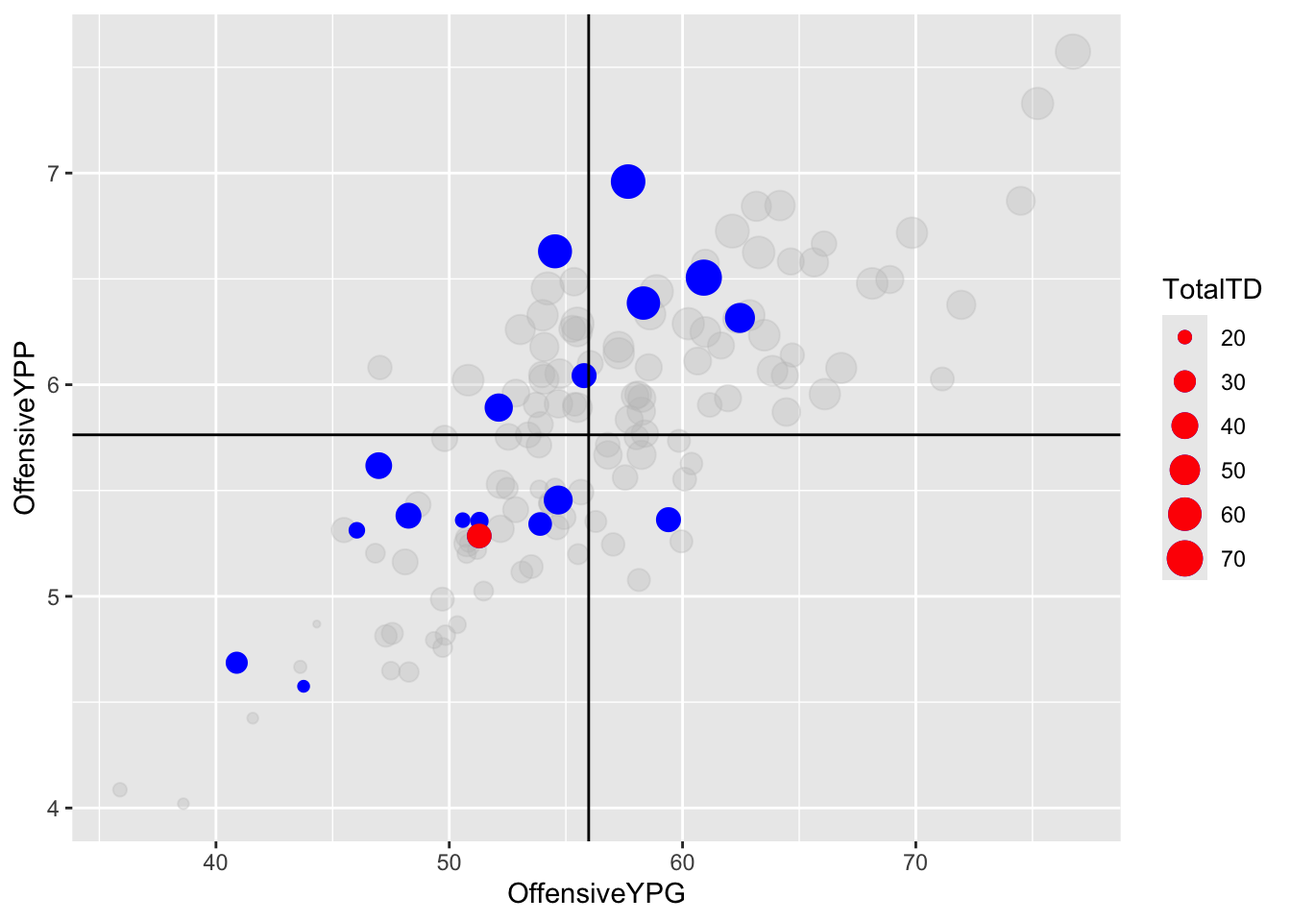
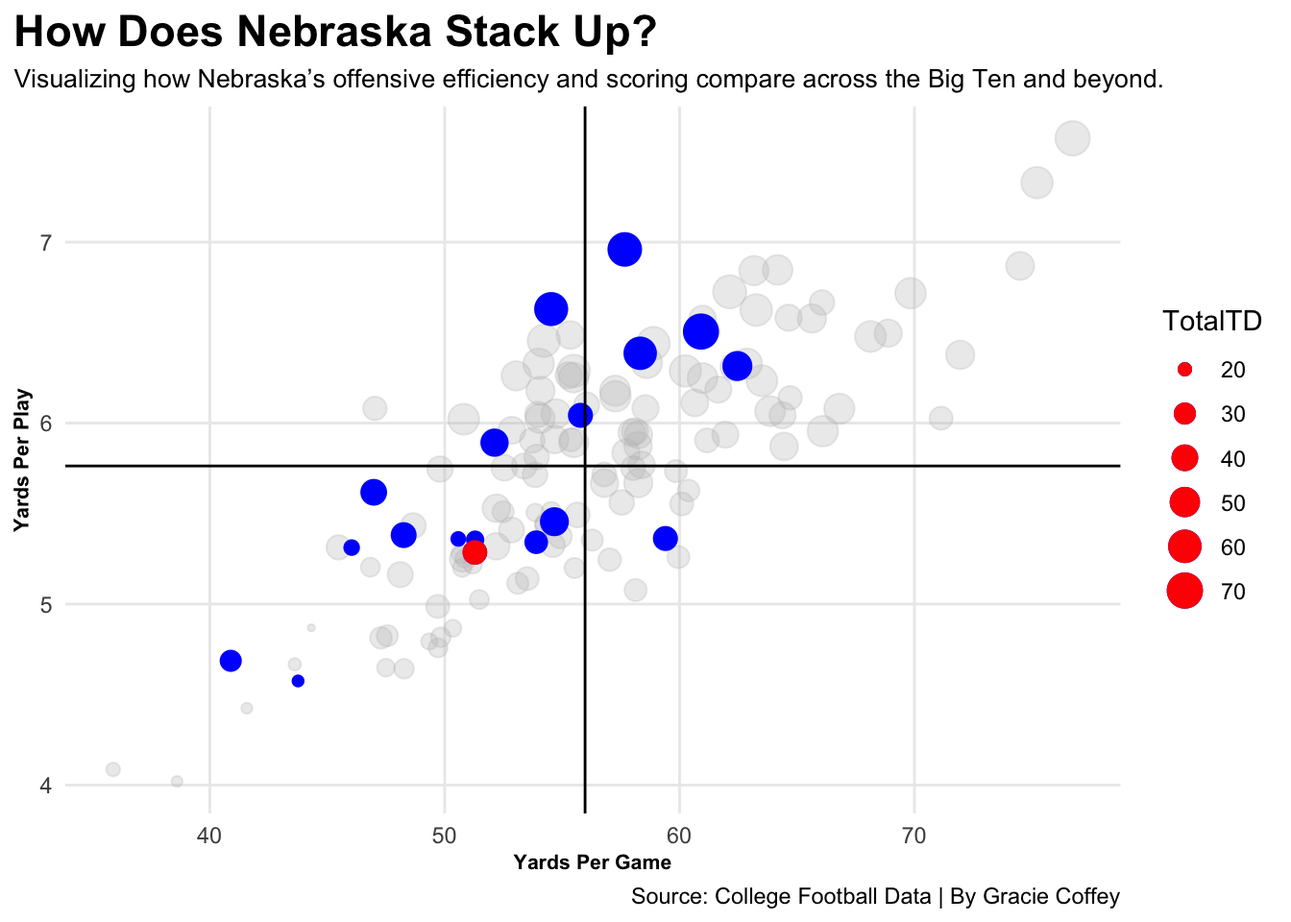
initial commit

diff --git a/posts/nebraska-football-offensive-line/index.html b/posts/nebraska-football-offensive-line/index.html
@@ -362,109 +362,42 @@ date  (1): Date
 <div class="sourceCode cell-code" id="cb12"><pre class="sourceCode r code-with-copy"><code class="sourceCode r"><span id="cb12-1"><a href="#cb12-1" aria-hidden="true" tabindex="-1"></a><span class="fu">ggplot</span>() <span class="sc">+</span> </span>
 <span id="cb12-2"><a href="#cb12-2" aria-hidden="true" tabindex="-1"></a>  <span class="fu">geom_point</span>(</span>
 <span id="cb12-3"><a href="#cb12-3" aria-hidden="true" tabindex="-1"></a>    <span class="at">data=</span>ypp, </span>
-<span id="cb12-4"><a href="#cb12-4" aria-hidden="true" tabindex="-1"></a>    <span class="fu">aes</span>(<span class="at">x=</span>OffensiveYPG, <span class="at">y=</span>OffensiveYPP, <span class="at">size=</span>TotalTD),</span>
-<span id="cb12-5"><a href="#cb12-5" aria-hidden="true" tabindex="-1"></a>    <span class="at">alpha =</span> .<span class="dv">3</span>) <span class="sc">+</span> </span>
-<span id="cb12-6"><a href="#cb12-6" aria-hidden="true" tabindex="-1"></a>  <span class="fu">scale_size</span>(<span class="at">range =</span> <span class="fu">c</span>(<span class="dv">3</span>, <span class="dv">8</span>), <span class="at">name=</span><span class="st">"Touchdowns"</span>)</span></code><button title="Copy to Clipboard" class="code-copy-button"><i class="bi"></i></button></pre></div>
+<span id="cb12-4"><a href="#cb12-4" aria-hidden="true" tabindex="-1"></a>    <span class="fu">aes</span>(<span class="at">x=</span>OffensiveYPG, <span class="at">y=</span>OffensiveYPP, <span class="at">size=</span>TotalTD), </span>
+<span id="cb12-5"><a href="#cb12-5" aria-hidden="true" tabindex="-1"></a>    <span class="at">color=</span><span class="st">"grey"</span>, </span>
+<span id="cb12-6"><a href="#cb12-6" aria-hidden="true" tabindex="-1"></a>    <span class="at">alpha=</span>.<span class="dv">3</span>) <span class="sc">+</span> </span>
+<span id="cb12-7"><a href="#cb12-7" aria-hidden="true" tabindex="-1"></a>  <span class="fu">geom_point</span>(</span>
+<span id="cb12-8"><a href="#cb12-8" aria-hidden="true" tabindex="-1"></a>    <span class="at">data=</span>bigten, </span>
+<span id="cb12-9"><a href="#cb12-9" aria-hidden="true" tabindex="-1"></a>    <span class="fu">aes</span>(<span class="at">x=</span>OffensiveYPG, <span class="at">y=</span>OffensiveYPP, <span class="at">size=</span>TotalTD), </span>
+<span id="cb12-10"><a href="#cb12-10" aria-hidden="true" tabindex="-1"></a>    <span class="at">color=</span><span class="st">"blue"</span>) <span class="sc">+</span> </span>
+<span id="cb12-11"><a href="#cb12-11" aria-hidden="true" tabindex="-1"></a>  <span class="fu">geom_point</span>(</span>
+<span id="cb12-12"><a href="#cb12-12" aria-hidden="true" tabindex="-1"></a>    <span class="at">data=</span>huskers, </span>
+<span id="cb12-13"><a href="#cb12-13" aria-hidden="true" tabindex="-1"></a>    <span class="fu">aes</span>(<span class="at">x=</span>OffensiveYPG, <span class="at">y=</span>OffensiveYPP, <span class="at">size=</span>TotalTD), </span>
+<span id="cb12-14"><a href="#cb12-14" aria-hidden="true" tabindex="-1"></a>    <span class="at">color=</span><span class="st">"red"</span>) <span class="sc">+</span></span>
+<span id="cb12-15"><a href="#cb12-15" aria-hidden="true" tabindex="-1"></a>  <span class="fu">geom_vline</span>(<span class="at">xintercept =</span> <span class="fl">55.97656</span>) <span class="sc">+</span> </span>
+<span id="cb12-16"><a href="#cb12-16" aria-hidden="true" tabindex="-1"></a>  <span class="fu">geom_hline</span>(<span class="at">yintercept =</span> <span class="fl">5.763149</span>) <span class="sc">+</span></span>
+<span id="cb12-17"><a href="#cb12-17" aria-hidden="true" tabindex="-1"></a>  <span class="fu">geom_text_repel</span>(</span>
+<span id="cb12-18"><a href="#cb12-18" aria-hidden="true" tabindex="-1"></a>    <span class="at">data=</span>huskers, </span>
+<span id="cb12-19"><a href="#cb12-19" aria-hidden="true" tabindex="-1"></a>    <span class="fu">aes</span>(<span class="at">x=</span>OffensiveYPG <span class="sc">-</span> .<span class="dv">25</span>, <span class="at">y=</span>OffensiveYPP <span class="sc">-</span> .<span class="dv">25</span>, <span class="at">label=</span>Team)) <span class="sc">|&gt;</span></span>
+<span id="cb12-20"><a href="#cb12-20" aria-hidden="true" tabindex="-1"></a><span class="fu">labs</span>(</span>
+<span id="cb12-21"><a href="#cb12-21" aria-hidden="true" tabindex="-1"></a>    <span class="at">x=</span><span class="st">"Yards Per Game"</span>,</span>
+<span id="cb12-22"><a href="#cb12-22" aria-hidden="true" tabindex="-1"></a>    <span class="at">y=</span><span class="st">"Yards Per Play"</span>, </span>
+<span id="cb12-23"><a href="#cb12-23" aria-hidden="true" tabindex="-1"></a>    <span class="at">title=</span><span class="st">"How Does Nebraska Stack Up?"</span>, </span>
+<span id="cb12-24"><a href="#cb12-24" aria-hidden="true" tabindex="-1"></a>    <span class="at">subtitle=</span><span class="st">"Visualizing how Nebraska’s offensive efficiency and scoring compare across the Big Ten and beyond."</span>, </span>
+<span id="cb12-25"><a href="#cb12-25" aria-hidden="true" tabindex="-1"></a>    <span class="at">caption=</span><span class="st">"Source: College Football Data | By Gracie Coffey"</span></span>
+<span id="cb12-26"><a href="#cb12-26" aria-hidden="true" tabindex="-1"></a>    ) <span class="sc">+</span></span>
+<span id="cb12-27"><a href="#cb12-27" aria-hidden="true" tabindex="-1"></a> <span class="fu">theme_minimal</span>() <span class="sc">+</span> </span>
+<span id="cb12-28"><a href="#cb12-28" aria-hidden="true" tabindex="-1"></a>  <span class="fu">theme</span>(</span>
+<span id="cb12-29"><a href="#cb12-29" aria-hidden="true" tabindex="-1"></a>    <span class="at">plot.title =</span> <span class="fu">element_text</span>(<span class="at">size =</span> <span class="dv">17</span>, <span class="at">face =</span> <span class="st">"bold"</span>),</span>
+<span id="cb12-30"><a href="#cb12-30" aria-hidden="true" tabindex="-1"></a>    <span class="at">axis.title =</span> <span class="fu">element_text</span>(<span class="at">size =</span> <span class="dv">8</span>, <span class="at">face =</span> <span class="st">"bold"</span>), </span>
+<span id="cb12-31"><a href="#cb12-31" aria-hidden="true" tabindex="-1"></a>    <span class="at">plot.subtitle =</span> <span class="fu">element_text</span>(<span class="at">size=</span><span class="dv">10</span>), </span>
+<span id="cb12-32"><a href="#cb12-32" aria-hidden="true" tabindex="-1"></a>    <span class="at">panel.grid.minor =</span> <span class="fu">element_blank</span>(),</span>
+<span id="cb12-33"><a href="#cb12-33" aria-hidden="true" tabindex="-1"></a>    <span class="at">plot.title.position =</span> <span class="st">"plot"</span></span>
+<span id="cb12-34"><a href="#cb12-34" aria-hidden="true" tabindex="-1"></a>    ) </span></code><button title="Copy to Clipboard" class="code-copy-button"><i class="bi"></i></button></pre></div>
 </details>
 <div class="cell-output-display">
 <div>
 <figure class="figure">
 <p><img src="index_files/figure-html/unnamed-chunk-5-1.png" class="img-fluid figure-img" width="672"></p>
-</figure>
-</div>
-</div>
-<details class="code-fold">
-<summary>Code</summary>
-<div class="sourceCode cell-code" id="cb13"><pre class="sourceCode r code-with-copy"><code class="sourceCode r"><span id="cb13-1"><a href="#cb13-1" aria-hidden="true" tabindex="-1"></a><span class="fu">ggplot</span>() <span class="sc">+</span> </span>
-<span id="cb13-2"><a href="#cb13-2" aria-hidden="true" tabindex="-1"></a>  <span class="fu">geom_point</span>(</span>
-<span id="cb13-3"><a href="#cb13-3" aria-hidden="true" tabindex="-1"></a>    <span class="at">data=</span>ypp, </span>
-<span id="cb13-4"><a href="#cb13-4" aria-hidden="true" tabindex="-1"></a>    <span class="fu">aes</span>(<span class="at">x=</span>OffensiveYPG, <span class="at">y=</span>OffensiveYPP, <span class="at">size=</span>TotalTD), </span>
-<span id="cb13-5"><a href="#cb13-5" aria-hidden="true" tabindex="-1"></a>    <span class="at">color=</span><span class="st">"grey"</span>, </span>
-<span id="cb13-6"><a href="#cb13-6" aria-hidden="true" tabindex="-1"></a>    <span class="at">alpha=</span>.<span class="dv">3</span>) <span class="sc">+</span> </span>
-<span id="cb13-7"><a href="#cb13-7" aria-hidden="true" tabindex="-1"></a>  <span class="fu">geom_point</span>(</span>
-<span id="cb13-8"><a href="#cb13-8" aria-hidden="true" tabindex="-1"></a>    <span class="at">data=</span>bigten, </span>
-<span id="cb13-9"><a href="#cb13-9" aria-hidden="true" tabindex="-1"></a>    <span class="fu">aes</span>(<span class="at">x=</span>OffensiveYPG, <span class="at">y=</span>OffensiveYPP, <span class="at">size=</span>TotalTD), </span>
-<span id="cb13-10"><a href="#cb13-10" aria-hidden="true" tabindex="-1"></a>    <span class="at">color=</span><span class="st">"blue"</span>) <span class="sc">+</span> </span>
-<span id="cb13-11"><a href="#cb13-11" aria-hidden="true" tabindex="-1"></a>  <span class="fu">geom_point</span>(</span>
-<span id="cb13-12"><a href="#cb13-12" aria-hidden="true" tabindex="-1"></a>    <span class="at">data=</span>huskers, </span>
-<span id="cb13-13"><a href="#cb13-13" aria-hidden="true" tabindex="-1"></a>    <span class="fu">aes</span>(<span class="at">x=</span>OffensiveYPG, <span class="at">y=</span>OffensiveYPP, <span class="at">size=</span>TotalTD), </span>
-<span id="cb13-14"><a href="#cb13-14" aria-hidden="true" tabindex="-1"></a>    <span class="at">color=</span><span class="st">"red"</span>) <span class="sc">+</span></span>
-<span id="cb13-15"><a href="#cb13-15" aria-hidden="true" tabindex="-1"></a>  <span class="fu">geom_vline</span>(<span class="at">xintercept =</span> <span class="fl">55.97656</span>) <span class="sc">+</span> </span>
-<span id="cb13-16"><a href="#cb13-16" aria-hidden="true" tabindex="-1"></a>  <span class="fu">geom_hline</span>(<span class="at">yintercept =</span> <span class="fl">5.763149</span>)</span></code><button title="Copy to Clipboard" class="code-copy-button"><i class="bi"></i></button></pre></div>
-</details>
-<div class="cell-output-display">
-<div>
-<figure class="figure">
-<p><img src="index_files/figure-html/unnamed-chunk-5-2.png" class="img-fluid figure-img" width="672"></p>
-</figure>
-</div>
-</div>
-<details class="code-fold">
-<summary>Code</summary>
-<div class="sourceCode cell-code" id="cb14"><pre class="sourceCode r code-with-copy"><code class="sourceCode r"><span id="cb14-1"><a href="#cb14-1" aria-hidden="true" tabindex="-1"></a><span class="fu">ggplot</span>() <span class="sc">+</span> </span>
-<span id="cb14-2"><a href="#cb14-2" aria-hidden="true" tabindex="-1"></a>  <span class="fu">geom_point</span>(</span>
-<span id="cb14-3"><a href="#cb14-3" aria-hidden="true" tabindex="-1"></a>    <span class="at">data=</span>ypp, </span>
-<span id="cb14-4"><a href="#cb14-4" aria-hidden="true" tabindex="-1"></a>    <span class="fu">aes</span>(<span class="at">x=</span>OffensiveYPG, <span class="at">y=</span>OffensiveYPP, <span class="at">size=</span>TotalTD), </span>
-<span id="cb14-5"><a href="#cb14-5" aria-hidden="true" tabindex="-1"></a>    <span class="at">color=</span><span class="st">"grey"</span>, </span>
-<span id="cb14-6"><a href="#cb14-6" aria-hidden="true" tabindex="-1"></a>    <span class="at">alpha=</span>.<span class="dv">3</span>) <span class="sc">+</span></span>
-<span id="cb14-7"><a href="#cb14-7" aria-hidden="true" tabindex="-1"></a>  <span class="fu">geom_point</span>(</span>
-<span id="cb14-8"><a href="#cb14-8" aria-hidden="true" tabindex="-1"></a>    <span class="at">data=</span>bigten, </span>
-<span id="cb14-9"><a href="#cb14-9" aria-hidden="true" tabindex="-1"></a>    <span class="fu">aes</span>(<span class="at">x=</span>OffensiveYPG, <span class="at">y=</span>OffensiveYPP, <span class="at">size=</span>TotalTD), </span>
-<span id="cb14-10"><a href="#cb14-10" aria-hidden="true" tabindex="-1"></a>    <span class="at">color=</span><span class="st">"blue"</span>, </span>
-<span id="cb14-11"><a href="#cb14-11" aria-hidden="true" tabindex="-1"></a>    <span class="at">alpha=</span>.<span class="dv">3</span>) <span class="sc">+</span> </span>
-<span id="cb14-12"><a href="#cb14-12" aria-hidden="true" tabindex="-1"></a>  <span class="fu">geom_point</span>(</span>
-<span id="cb14-13"><a href="#cb14-13" aria-hidden="true" tabindex="-1"></a>    <span class="at">data=</span>huskers, </span>
-<span id="cb14-14"><a href="#cb14-14" aria-hidden="true" tabindex="-1"></a>    <span class="fu">aes</span>(<span class="at">x=</span>OffensiveYPG, <span class="at">y=</span>OffensiveYPP, <span class="at">size=</span>TotalTD), </span>
-<span id="cb14-15"><a href="#cb14-15" aria-hidden="true" tabindex="-1"></a>    <span class="at">color=</span><span class="st">"red"</span>)</span></code><button title="Copy to Clipboard" class="code-copy-button"><i class="bi"></i></button></pre></div>
-</details>
-<div class="cell-output-display">
-<div>
-<figure class="figure">
-<p><img src="index_files/figure-html/unnamed-chunk-5-3.png" class="img-fluid figure-img" width="672"></p>
-</figure>
-</div>
-</div>
-<details class="code-fold">
-<summary>Code</summary>
-<div class="sourceCode cell-code" id="cb15"><pre class="sourceCode r code-with-copy"><code class="sourceCode r"><span id="cb15-1"><a href="#cb15-1" aria-hidden="true" tabindex="-1"></a><span class="fu">ggplot</span>() <span class="sc">+</span> </span>
-<span id="cb15-2"><a href="#cb15-2" aria-hidden="true" tabindex="-1"></a>  <span class="fu">geom_point</span>(</span>
-<span id="cb15-3"><a href="#cb15-3" aria-hidden="true" tabindex="-1"></a>    <span class="at">data=</span>ypp, </span>
-<span id="cb15-4"><a href="#cb15-4" aria-hidden="true" tabindex="-1"></a>    <span class="fu">aes</span>(<span class="at">x=</span>OffensiveYPG, <span class="at">y=</span>OffensiveYPP, <span class="at">size=</span>TotalTD), </span>
-<span id="cb15-5"><a href="#cb15-5" aria-hidden="true" tabindex="-1"></a>    <span class="at">color=</span><span class="st">"grey"</span>, </span>
-<span id="cb15-6"><a href="#cb15-6" aria-hidden="true" tabindex="-1"></a>    <span class="at">alpha=</span>.<span class="dv">3</span>) <span class="sc">+</span> </span>
-<span id="cb15-7"><a href="#cb15-7" aria-hidden="true" tabindex="-1"></a>  <span class="fu">geom_point</span>(</span>
-<span id="cb15-8"><a href="#cb15-8" aria-hidden="true" tabindex="-1"></a>    <span class="at">data=</span>bigten, </span>
-<span id="cb15-9"><a href="#cb15-9" aria-hidden="true" tabindex="-1"></a>    <span class="fu">aes</span>(<span class="at">x=</span>OffensiveYPG, <span class="at">y=</span>OffensiveYPP, <span class="at">size=</span>TotalTD), </span>
-<span id="cb15-10"><a href="#cb15-10" aria-hidden="true" tabindex="-1"></a>    <span class="at">color=</span><span class="st">"blue"</span>) <span class="sc">+</span> </span>
-<span id="cb15-11"><a href="#cb15-11" aria-hidden="true" tabindex="-1"></a>  <span class="fu">geom_point</span>(</span>
-<span id="cb15-12"><a href="#cb15-12" aria-hidden="true" tabindex="-1"></a>    <span class="at">data=</span>huskers, </span>
-<span id="cb15-13"><a href="#cb15-13" aria-hidden="true" tabindex="-1"></a>    <span class="fu">aes</span>(<span class="at">x=</span>OffensiveYPG, <span class="at">y=</span>OffensiveYPP, <span class="at">size=</span>TotalTD), </span>
-<span id="cb15-14"><a href="#cb15-14" aria-hidden="true" tabindex="-1"></a>    <span class="at">color=</span><span class="st">"red"</span>) <span class="sc">+</span></span>
-<span id="cb15-15"><a href="#cb15-15" aria-hidden="true" tabindex="-1"></a>  <span class="fu">geom_vline</span>(<span class="at">xintercept =</span> <span class="fl">55.97656</span>) <span class="sc">+</span> </span>
-<span id="cb15-16"><a href="#cb15-16" aria-hidden="true" tabindex="-1"></a>  <span class="fu">geom_hline</span>(<span class="at">yintercept =</span> <span class="fl">5.763149</span>) <span class="sc">+</span></span>
-<span id="cb15-17"><a href="#cb15-17" aria-hidden="true" tabindex="-1"></a>  <span class="fu">geom_text_repel</span>(</span>
-<span id="cb15-18"><a href="#cb15-18" aria-hidden="true" tabindex="-1"></a>    <span class="at">data=</span>huskers, </span>
-<span id="cb15-19"><a href="#cb15-19" aria-hidden="true" tabindex="-1"></a>    <span class="fu">aes</span>(<span class="at">x=</span>OffensiveYPG <span class="sc">-</span> .<span class="dv">25</span>, <span class="at">y=</span>OffensiveYPP <span class="sc">-</span> .<span class="dv">25</span>, <span class="at">label=</span>Team)) <span class="sc">|&gt;</span></span>
-<span id="cb15-20"><a href="#cb15-20" aria-hidden="true" tabindex="-1"></a><span class="fu">labs</span>(</span>
-<span id="cb15-21"><a href="#cb15-21" aria-hidden="true" tabindex="-1"></a>    <span class="at">x=</span><span class="st">"Yards Per Game"</span>,</span>
-<span id="cb15-22"><a href="#cb15-22" aria-hidden="true" tabindex="-1"></a>    <span class="at">y=</span><span class="st">"Yards Per Play"</span>, </span>
-<span id="cb15-23"><a href="#cb15-23" aria-hidden="true" tabindex="-1"></a>    <span class="at">title=</span><span class="st">"How Does Nebraska Stack Up?"</span>, </span>
-<span id="cb15-24"><a href="#cb15-24" aria-hidden="true" tabindex="-1"></a>    <span class="at">subtitle=</span><span class="st">"Visualizing how Nebraska’s offensive efficiency and scoring compare across the Big Ten and beyond."</span>, </span>
-<span id="cb15-25"><a href="#cb15-25" aria-hidden="true" tabindex="-1"></a>    <span class="at">caption=</span><span class="st">"Source: College Football Data | By Gracie Coffey"</span></span>
-<span id="cb15-26"><a href="#cb15-26" aria-hidden="true" tabindex="-1"></a>    ) <span class="sc">+</span></span>
-<span id="cb15-27"><a href="#cb15-27" aria-hidden="true" tabindex="-1"></a> <span class="fu">theme_minimal</span>() <span class="sc">+</span> </span>
-<span id="cb15-28"><a href="#cb15-28" aria-hidden="true" tabindex="-1"></a>  <span class="fu">theme</span>(</span>
-<span id="cb15-29"><a href="#cb15-29" aria-hidden="true" tabindex="-1"></a>    <span class="at">plot.title =</span> <span class="fu">element_text</span>(<span class="at">size =</span> <span class="dv">17</span>, <span class="at">face =</span> <span class="st">"bold"</span>),</span>
-<span id="cb15-30"><a href="#cb15-30" aria-hidden="true" tabindex="-1"></a>    <span class="at">axis.title =</span> <span class="fu">element_text</span>(<span class="at">size =</span> <span class="dv">8</span>, <span class="at">face =</span> <span class="st">"bold"</span>), </span>
-<span id="cb15-31"><a href="#cb15-31" aria-hidden="true" tabindex="-1"></a>    <span class="at">plot.subtitle =</span> <span class="fu">element_text</span>(<span class="at">size=</span><span class="dv">10</span>), </span>
-<span id="cb15-32"><a href="#cb15-32" aria-hidden="true" tabindex="-1"></a>    <span class="at">panel.grid.minor =</span> <span class="fu">element_blank</span>(),</span>
-<span id="cb15-33"><a href="#cb15-33" aria-hidden="true" tabindex="-1"></a>    <span class="at">plot.title.position =</span> <span class="st">"plot"</span></span>
-<span id="cb15-34"><a href="#cb15-34" aria-hidden="true" tabindex="-1"></a>    ) </span></code><button title="Copy to Clipboard" class="code-copy-button"><i class="bi"></i></button></pre></div>
-</details>
-<div class="cell-output-display">
-<div>
-<figure class="figure">
-<p><img src="index_files/figure-html/unnamed-chunk-5-4.png" class="img-fluid figure-img" width="672"></p>
 </figure>
 </div>
 </div>

diff --git a/bubblechart.html b/bubblechart.html
@@ -374,6 +374,84 @@ date  (1): Date
 </div>
 </div>
 </div>
+<div class="cell">
+<div class="sourceCode cell-code" id="cb18"><pre class="sourceCode r code-with-copy"><code class="sourceCode r"><span id="cb18-1"><a href="#cb18-1" aria-hidden="true" tabindex="-1"></a>ypp <span class="ot">&lt;-</span> fblogs <span class="sc">|&gt;</span> </span>
+<span id="cb18-2"><a href="#cb18-2" aria-hidden="true" tabindex="-1"></a>  <span class="fu">group_by</span>(Team, Conference) <span class="sc">|&gt;</span> </span>
+<span id="cb18-3"><a href="#cb18-3" aria-hidden="true" tabindex="-1"></a>  <span class="fu">summarise</span>(</span>
+<span id="cb18-4"><a href="#cb18-4" aria-hidden="true" tabindex="-1"></a>    <span class="at">TotalPlays =</span> <span class="fu">sum</span>(OffensivePlays), </span>
+<span id="cb18-5"><a href="#cb18-5" aria-hidden="true" tabindex="-1"></a>    <span class="at">TotalYards =</span> <span class="fu">sum</span>(OffensiveYards),</span>
+<span id="cb18-6"><a href="#cb18-6" aria-hidden="true" tabindex="-1"></a>    <span class="at">TotalGames =</span> <span class="fu">sum</span>(Game),</span>
+<span id="cb18-7"><a href="#cb18-7" aria-hidden="true" tabindex="-1"></a>    <span class="at">TotalGYards =</span> <span class="fu">sum</span>(OffensiveYards),</span>
+<span id="cb18-8"><a href="#cb18-8" aria-hidden="true" tabindex="-1"></a>    <span class="at">TotalRTD =</span> <span class="fu">sum</span>(RushingTD),</span>
+<span id="cb18-9"><a href="#cb18-9" aria-hidden="true" tabindex="-1"></a>    <span class="at">TotalPTD =</span> <span class="fu">sum</span>(PassingTD)) <span class="sc">|&gt;</span> </span>
+<span id="cb18-10"><a href="#cb18-10" aria-hidden="true" tabindex="-1"></a>  <span class="fu">mutate</span>(</span>
+<span id="cb18-11"><a href="#cb18-11" aria-hidden="true" tabindex="-1"></a>    <span class="at">OffensiveYPP =</span> TotalYards<span class="sc">/</span>TotalPlays,</span>
+<span id="cb18-12"><a href="#cb18-12" aria-hidden="true" tabindex="-1"></a>    <span class="at">OffensiveYPG =</span> TotalGYards<span class="sc">/</span>TotalGames,</span>
+<span id="cb18-13"><a href="#cb18-13" aria-hidden="true" tabindex="-1"></a>    <span class="at">TotalTD =</span> TotalRTD<span class="sc">+</span>TotalPTD)</span></code><button title="Copy to Clipboard" class="code-copy-button"><i class="bi"></i></button></pre></div>
+<div class="cell-output cell-output-stderr">
+<pre><code>`summarise()` has grouped output by 'Team'. You can override using the
+`.groups` argument.</code></pre>
+</div>
+<div class="sourceCode cell-code" id="cb20"><pre class="sourceCode r code-with-copy"><code class="sourceCode r"><span id="cb20-1"><a href="#cb20-1" aria-hidden="true" tabindex="-1"></a>bigten <span class="ot">&lt;-</span> ypp <span class="sc">|&gt;</span></span>
+<span id="cb20-2"><a href="#cb20-2" aria-hidden="true" tabindex="-1"></a>  <span class="fu">filter</span>(Conference <span class="sc">==</span> <span class="st">"Big Ten Conference"</span>)</span>
+<span id="cb20-3"><a href="#cb20-3" aria-hidden="true" tabindex="-1"></a></span>
+<span id="cb20-4"><a href="#cb20-4" aria-hidden="true" tabindex="-1"></a>huskers <span class="ot">&lt;-</span> bigten <span class="sc">|&gt;</span></span>
+<span id="cb20-5"><a href="#cb20-5" aria-hidden="true" tabindex="-1"></a>  <span class="fu">filter</span>(Team <span class="sc">==</span> <span class="st">"Nebraska"</span>)</span>
+<span id="cb20-6"><a href="#cb20-6" aria-hidden="true" tabindex="-1"></a></span>
+<span id="cb20-7"><a href="#cb20-7" aria-hidden="true" tabindex="-1"></a>ypp <span class="sc">|&gt;</span> </span>
+<span id="cb20-8"><a href="#cb20-8" aria-hidden="true" tabindex="-1"></a>  <span class="fu">ungroup</span>() <span class="sc">|&gt;</span> </span>
+<span id="cb20-9"><a href="#cb20-9" aria-hidden="true" tabindex="-1"></a>  <span class="fu">summarise</span>(</span>
+<span id="cb20-10"><a href="#cb20-10" aria-hidden="true" tabindex="-1"></a>    <span class="at">offenseypg =</span> <span class="fu">mean</span>(OffensiveYPG), </span>
+<span id="cb20-11"><a href="#cb20-11" aria-hidden="true" tabindex="-1"></a>    <span class="at">offenseypp =</span> <span class="fu">mean</span>(OffensiveYPP)</span>
+<span id="cb20-12"><a href="#cb20-12" aria-hidden="true" tabindex="-1"></a>    )</span></code><button title="Copy to Clipboard" class="code-copy-button"><i class="bi"></i></button></pre></div>
+<div class="cell-output cell-output-stdout">
+<pre><code># A tibble: 1 × 2
+  offenseypg offenseypp
+       &lt;dbl&gt;      &lt;dbl&gt;
+1       56.0       5.76</code></pre>
+</div>
+<div class="sourceCode cell-code" id="cb22"><pre class="sourceCode r code-with-copy"><code class="sourceCode r"><span id="cb22-1"><a href="#cb22-1" aria-hidden="true" tabindex="-1"></a><span class="fu">ggplot</span>() <span class="sc">+</span> </span>
+<span id="cb22-2"><a href="#cb22-2" aria-hidden="true" tabindex="-1"></a>  <span class="fu">geom_point</span>(</span>
+<span id="cb22-3"><a href="#cb22-3" aria-hidden="true" tabindex="-1"></a>    <span class="at">data=</span>ypp, </span>
+<span id="cb22-4"><a href="#cb22-4" aria-hidden="true" tabindex="-1"></a>    <span class="fu">aes</span>(<span class="at">x=</span>OffensiveYPG, <span class="at">y=</span>OffensiveYPP, <span class="at">size=</span>TotalTD), </span>
+<span id="cb22-5"><a href="#cb22-5" aria-hidden="true" tabindex="-1"></a>    <span class="at">color=</span><span class="st">"grey"</span>, </span>
+<span id="cb22-6"><a href="#cb22-6" aria-hidden="true" tabindex="-1"></a>    <span class="at">alpha=</span>.<span class="dv">3</span>) <span class="sc">+</span> </span>
+<span id="cb22-7"><a href="#cb22-7" aria-hidden="true" tabindex="-1"></a>  <span class="fu">geom_point</span>(</span>
+<span id="cb22-8"><a href="#cb22-8" aria-hidden="true" tabindex="-1"></a>    <span class="at">data=</span>bigten, </span>
+<span id="cb22-9"><a href="#cb22-9" aria-hidden="true" tabindex="-1"></a>    <span class="fu">aes</span>(<span class="at">x=</span>OffensiveYPG, <span class="at">y=</span>OffensiveYPP, <span class="at">size=</span>TotalTD), </span>
+<span id="cb22-10"><a href="#cb22-10" aria-hidden="true" tabindex="-1"></a>    <span class="at">color=</span><span class="st">"blue"</span>) <span class="sc">+</span> </span>
+<span id="cb22-11"><a href="#cb22-11" aria-hidden="true" tabindex="-1"></a>  <span class="fu">geom_point</span>(</span>
+<span id="cb22-12"><a href="#cb22-12" aria-hidden="true" tabindex="-1"></a>    <span class="at">data=</span>huskers, </span>
+<span id="cb22-13"><a href="#cb22-13" aria-hidden="true" tabindex="-1"></a>    <span class="fu">aes</span>(<span class="at">x=</span>OffensiveYPG, <span class="at">y=</span>OffensiveYPP, <span class="at">size=</span>TotalTD), </span>
+<span id="cb22-14"><a href="#cb22-14" aria-hidden="true" tabindex="-1"></a>    <span class="at">color=</span><span class="st">"red"</span>) <span class="sc">+</span></span>
+<span id="cb22-15"><a href="#cb22-15" aria-hidden="true" tabindex="-1"></a>  <span class="fu">geom_vline</span>(<span class="at">xintercept =</span> <span class="fl">55.97656</span>) <span class="sc">+</span> </span>
+<span id="cb22-16"><a href="#cb22-16" aria-hidden="true" tabindex="-1"></a>  <span class="fu">geom_hline</span>(<span class="at">yintercept =</span> <span class="fl">5.763149</span>) <span class="sc">+</span></span>
+<span id="cb22-17"><a href="#cb22-17" aria-hidden="true" tabindex="-1"></a>  <span class="fu">geom_text_repel</span>(</span>
+<span id="cb22-18"><a href="#cb22-18" aria-hidden="true" tabindex="-1"></a>    <span class="at">data=</span>huskers, </span>
+<span id="cb22-19"><a href="#cb22-19" aria-hidden="true" tabindex="-1"></a>    <span class="fu">aes</span>(<span class="at">x=</span>OffensiveYPG <span class="sc">-</span> .<span class="dv">25</span>, <span class="at">y=</span>OffensiveYPP <span class="sc">-</span> .<span class="dv">25</span>, <span class="at">label=</span>Team)) <span class="sc">|&gt;</span></span>
+<span id="cb22-20"><a href="#cb22-20" aria-hidden="true" tabindex="-1"></a><span class="fu">labs</span>(</span>
+<span id="cb22-21"><a href="#cb22-21" aria-hidden="true" tabindex="-1"></a>    <span class="at">x=</span><span class="st">"Yards Per Game"</span>,</span>
+<span id="cb22-22"><a href="#cb22-22" aria-hidden="true" tabindex="-1"></a>    <span class="at">y=</span><span class="st">"Yards Per Play"</span>, </span>
+<span id="cb22-23"><a href="#cb22-23" aria-hidden="true" tabindex="-1"></a>    <span class="at">title=</span><span class="st">"How Does Nebraska Stack Up?"</span>, </span>
+<span id="cb22-24"><a href="#cb22-24" aria-hidden="true" tabindex="-1"></a>    <span class="at">subtitle=</span><span class="st">"Visualizing how Nebraska’s offensive efficiency and scoring compare across the Big Ten and beyond."</span>, </span>
+<span id="cb22-25"><a href="#cb22-25" aria-hidden="true" tabindex="-1"></a>    <span class="at">caption=</span><span class="st">"Source: College Football Data | By Gracie Coffey"</span></span>
+<span id="cb22-26"><a href="#cb22-26" aria-hidden="true" tabindex="-1"></a>    ) <span class="sc">+</span></span>
+<span id="cb22-27"><a href="#cb22-27" aria-hidden="true" tabindex="-1"></a> <span class="fu">theme_minimal</span>() <span class="sc">+</span> </span>
+<span id="cb22-28"><a href="#cb22-28" aria-hidden="true" tabindex="-1"></a>  <span class="fu">theme</span>(</span>
+<span id="cb22-29"><a href="#cb22-29" aria-hidden="true" tabindex="-1"></a>    <span class="at">plot.title =</span> <span class="fu">element_text</span>(<span class="at">size =</span> <span class="dv">17</span>, <span class="at">face =</span> <span class="st">"bold"</span>),</span>
+<span id="cb22-30"><a href="#cb22-30" aria-hidden="true" tabindex="-1"></a>    <span class="at">axis.title =</span> <span class="fu">element_text</span>(<span class="at">size =</span> <span class="dv">8</span>, <span class="at">face =</span> <span class="st">"bold"</span>), </span>
+<span id="cb22-31"><a href="#cb22-31" aria-hidden="true" tabindex="-1"></a>    <span class="at">plot.subtitle =</span> <span class="fu">element_text</span>(<span class="at">size=</span><span class="dv">10</span>), </span>
+<span id="cb22-32"><a href="#cb22-32" aria-hidden="true" tabindex="-1"></a>    <span class="at">panel.grid.minor =</span> <span class="fu">element_blank</span>(),</span>
+<span id="cb22-33"><a href="#cb22-33" aria-hidden="true" tabindex="-1"></a>    <span class="at">plot.title.position =</span> <span class="st">"plot"</span></span>
+<span id="cb22-34"><a href="#cb22-34" aria-hidden="true" tabindex="-1"></a>    ) </span></code><button title="Copy to Clipboard" class="code-copy-button"><i class="bi"></i></button></pre></div>
+<div class="cell-output-display">
+<div>
+<figure class="figure">
+<p><img src="bubblechart_files/figure-html/unnamed-chunk-13-1.png" class="img-fluid figure-img" width="672"></p>
+</figure>
+</div>
+</div>
+</div>
 
 
 

diff --git a/index.html b/index.html
@@ -205,7 +205,7 @@ window.Quarto = {
 
 <div class="quarto-listing quarto-listing-container-default" id="listing-listing">
 <div class="list quarto-listing-default">
-<div class="quarto-post image-right" data-index="0" data-categories="Zm9vdGJhbGwlMkNjZmIlMkNiaWclMjAxMCUyQ25lYnJhc2th" data-listing-date-sort="1712984400000" data-listing-file-modified-sort="1744588834666" data-listing-date-modified-sort="NaN" data-listing-reading-time-sort="7" data-listing-word-count-sort="1274">
+<div class="quarto-post image-right" data-index="0" data-categories="Zm9vdGJhbGwlMkNjZmIlMkNiaWclMjAxMCUyQ25lYnJhc2th" data-listing-date-sort="1712984400000" data-listing-file-modified-sort="1744589094232" data-listing-date-modified-sort="NaN" data-listing-reading-time-sort="6" data-listing-word-count-sort="1100">
 <div class="thumbnail">
 <p><a href="./posts/nebraska-football-offensive-line/index.html" class="no-external"></a></p><a href="./posts/nebraska-football-offensive-line/index.html" class="no-external">
 <p><img loading="lazy" src="./posts/nebraska-football-offensive-line/image.png" class="thumbnail-image"></p>

diff --git a/about.html b/about.html
@@ -130,15 +130,11 @@ ul.task-list li input[type="checkbox"] {
 </main> 
   <hr class="about-sep">
    <div class="about-links">
-  <a href="https://twitter.com" class="about-link" rel="" target="">
-    <i class="bi bi-twitter"></i>
-     <span class="about-link-text">Twitter</span>
-  </a>
-  <a href="https://www.linkedin.com/jobs/" class="about-link" rel="" target="">
+  <a href="https://www.linkedin.com/in/gracie-coffey-bb8b552ba/" class="about-link" rel="" target="">
     <i class="bi bi-linkedin"></i>
      <span class="about-link-text">LinkedIn</span>
   </a>
-  <a href="https://github.com" class="about-link" rel="" target="">
+  <a href="https://graciecoffey03.github.io/posts/nebraska-football-offensive-line/" class="about-link" rel="" target="">
     <i class="bi bi-github"></i>
      <span class="about-link-text">Github</span>
   </a>
